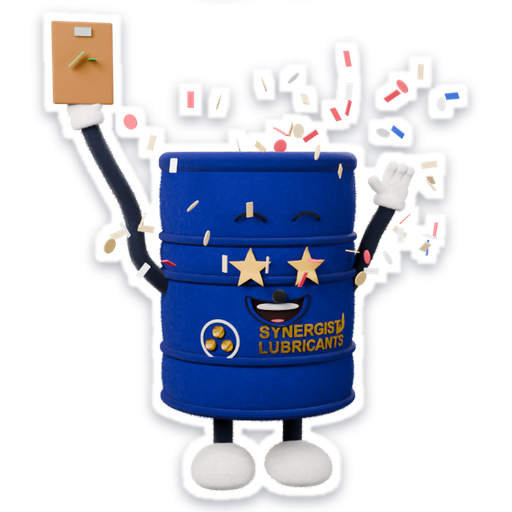
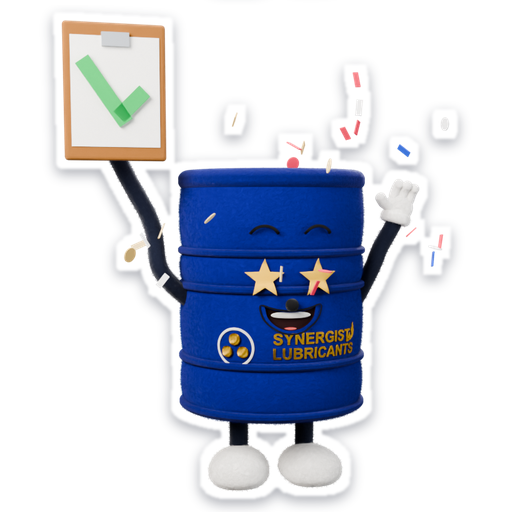
Sticker 10 fix: lighter confetti, bigger clipboard, bold tick
10 Paid uses a 24-piece confetti (~60% less); the check clipboard comes forward and 1.7x bigger. Clipboard paper is a thin upright box (the plane was baked flat), and the check mark is a bold two-stroke tick. 01, 10 and 15 re-rendered, sheet refreshed.

Changed region(s): [[0.0625, 0.0312, 0.9375, 1.0]]

diff --git a/scripts/06_stickers.py b/scripts/06_stickers.py
@@ -152,14 +152,14 @@ def create_clipboard(check=False):
     board_mat = make_felt_material("Clipboard_Board", "#8A5A2B")
     board.data.materials.append(board_mat)
     # Paper
-    bpy.ops.mesh.primitive_plane_add(size=1, enter_editmode=False, align='WORLD', location=(0, 0.012, 0))
+    # thin upright box (a plane would need rotating, and transform_apply bakes its offset first)
+    bpy.ops.mesh.primitive_cube_add(size=1, enter_editmode=False, align='WORLD', location=(0, 0.012, 0))
     paper = bpy.context.active_object
     paper.name = name + "_Paper"
-    paper.scale = (0.26, 0.32, 1)
+    paper.scale = (0.26, 0.002, 0.32)
     bpy.ops.object.transform_apply(scale=True)
     paper_mat = make_felt_material("Clipboard_Paper", "#F4F2EE")
     paper.data.materials.append(paper_mat)
-    paper.rotation_euler = Euler((radians(90), 0, 0), 'XYZ')  # plane_add is flat (XY): stand it up
     paper.parent = board
     paper.matrix_parent_inverse = Matrix.Identity(4)
     # Clip
@@ -188,29 +188,20 @@ def create_clipboard(check=False):
             line.parent = paper
             line.matrix_parent_inverse = Matrix.Identity(4)
     else:
-        # Green check mark: two thick boxes forming a tick
-        check_mat = make_felt_material("Clipboard_Check", "#2DBE60")
-        # Vertical bar
-        bpy.ops.mesh.primitive_cube_add(size=1, enter_editmode=False, align='WORLD',
-                                        location=(-0.04, 0.015, -0.02))
-        bar1 = bpy.context.active_object
-        bar1.name = name + "_CheckBar1"
-        bar1.scale = (0.04, 0.002, 0.12)
-        bpy.ops.object.transform_apply(scale=True)
-        bar1.data.materials.append(check_mat)
-        bar1.parent = paper
-        bar1.matrix_parent_inverse = Matrix.Identity(4)
-        # Diagonal bar
-        bpy.ops.mesh.primitive_cube_add(size=1, enter_editmode=False, align='WORLD',
-                                        location=(0.04, 0.015, -0.05))
-        bar2 = bpy.context.active_object
-        bar2.name = name + "_CheckBar2"
-        bar2.scale = (0.1, 0.002, 0.04)
-        bar2.rotation_euler = Euler((0, 0, radians(-45)), 'XYZ')
-        bpy.ops.object.transform_apply(rotation=True, scale=True)
-        bar2.data.materials.append(check_mat)
-        bar2.parent = paper
-        bar2.matrix_parent_inverse = Matrix.Identity(4)
+        # Big green tick: short stroke down-right, long stroke up-right, both standing proud of the paper
+        check_mat = make_felt_material("Clipboard_Check", "#1FA34F")
+        for nm, cx, cz, length, ang in (("_CheckBar1", -0.045, -0.035, 0.11, 45),
+                                         ("_CheckBar2", 0.035, 0.0, 0.22, -55)):
+            bpy.ops.mesh.primitive_cube_add(size=1, enter_editmode=False, align='WORLD', location=(0, 0, 0))
+            bar = bpy.context.active_object
+            bar.name = name + nm
+            bar.scale = (length, 0.012, 0.045)
+            bar.rotation_euler = Euler((0, radians(ang), 0), 'XYZ')
+            bpy.ops.object.transform_apply(rotation=True, scale=True)
+            bar.location = (cx, 0.02, cz)
+            bar.data.materials.append(check_mat)
+            bar.parent = board
+            bar.matrix_parent_inverse = Matrix.Identity(4)
     return board
 
 def create_pen():
@@ -541,8 +532,7 @@ def create_envelope():
     seal.matrix_parent_inverse = Matrix.Identity(4)
     return env
 
-def create_confetti():
-    name = "StkProp_Confetti"
+def create_confetti(name="StkProp_Confetti", count=60):
     if name in bpy.data.objects:
         bpy.data.objects.remove(bpy.data.objects[name], do_unlink=True)
     # Create a single mesh object with multiple materials
@@ -555,7 +545,7 @@ def create_confetti():
     # but easier: create a single mesh with vertices for many boxes/discs.
     # For simplicity, create each piece as a separate object, then join.
     pieces = []
-    for _ in range(60):
+    for _ in range(count):
         # random shape: box or disc
         if random.random() < 0.5:
             bpy.ops.mesh.primitive_cube_add(size=1, enter_editmode=False, align='WORLD', location=(0,0,0))
@@ -654,6 +644,7 @@ def create_all_props():
     props["Laptop"] = create_laptop()
     props["Envelope"] = create_envelope()
     props["Confetti"] = create_confetti()
+    props["ConfettiLight"] = create_confetti("StkProp_ConfettiLight", 24)  # sticker 10: ~60% less
     props["Stars"] = create_stars()
     # Hide all props initially
     for obj in props.values():
@@ -886,7 +877,7 @@ STICKERS = [
         "caption": "PAID!",
         "face": "Excited",
         "overrides": {},
-        "props": ["ClipboardCheck", "Confetti"],
+        "props": ["ClipboardCheck", "ConfettiLight"],
         "pose": lambda: sticker10_pose(),
     },
     {
@@ -1102,8 +1093,10 @@ def sticker10_pose():
     view_layer.update()
     sock = bpy.data.objects["Socket_Hand.R"]
     clip = props_dict["ClipboardCheck"]
-    clip.matrix_world = Matrix.Translation(sock.matrix_world.translation + Vector((0, -0.05, 0.22))) @ \
-                        Matrix.Rotation(radians(10), 4, 'Z') @ Matrix.Rotation(radians(180), 4, 'Z')
+    # forward toward the camera and bigger so the check reads at sticker size
+    clip.matrix_world = Matrix.Translation(sock.matrix_world.translation + Vector((0.05, -0.25, 0.16))) @ \
+                        Matrix.Rotation(radians(8), 4, 'Z') @ Matrix.Rotation(radians(180), 4, 'Z') @ \
+                        Matrix.Diagonal((1.7, 1.7, 1.7, 1.0))
 
 def sticker12_pose():
     pose_wave_r()
